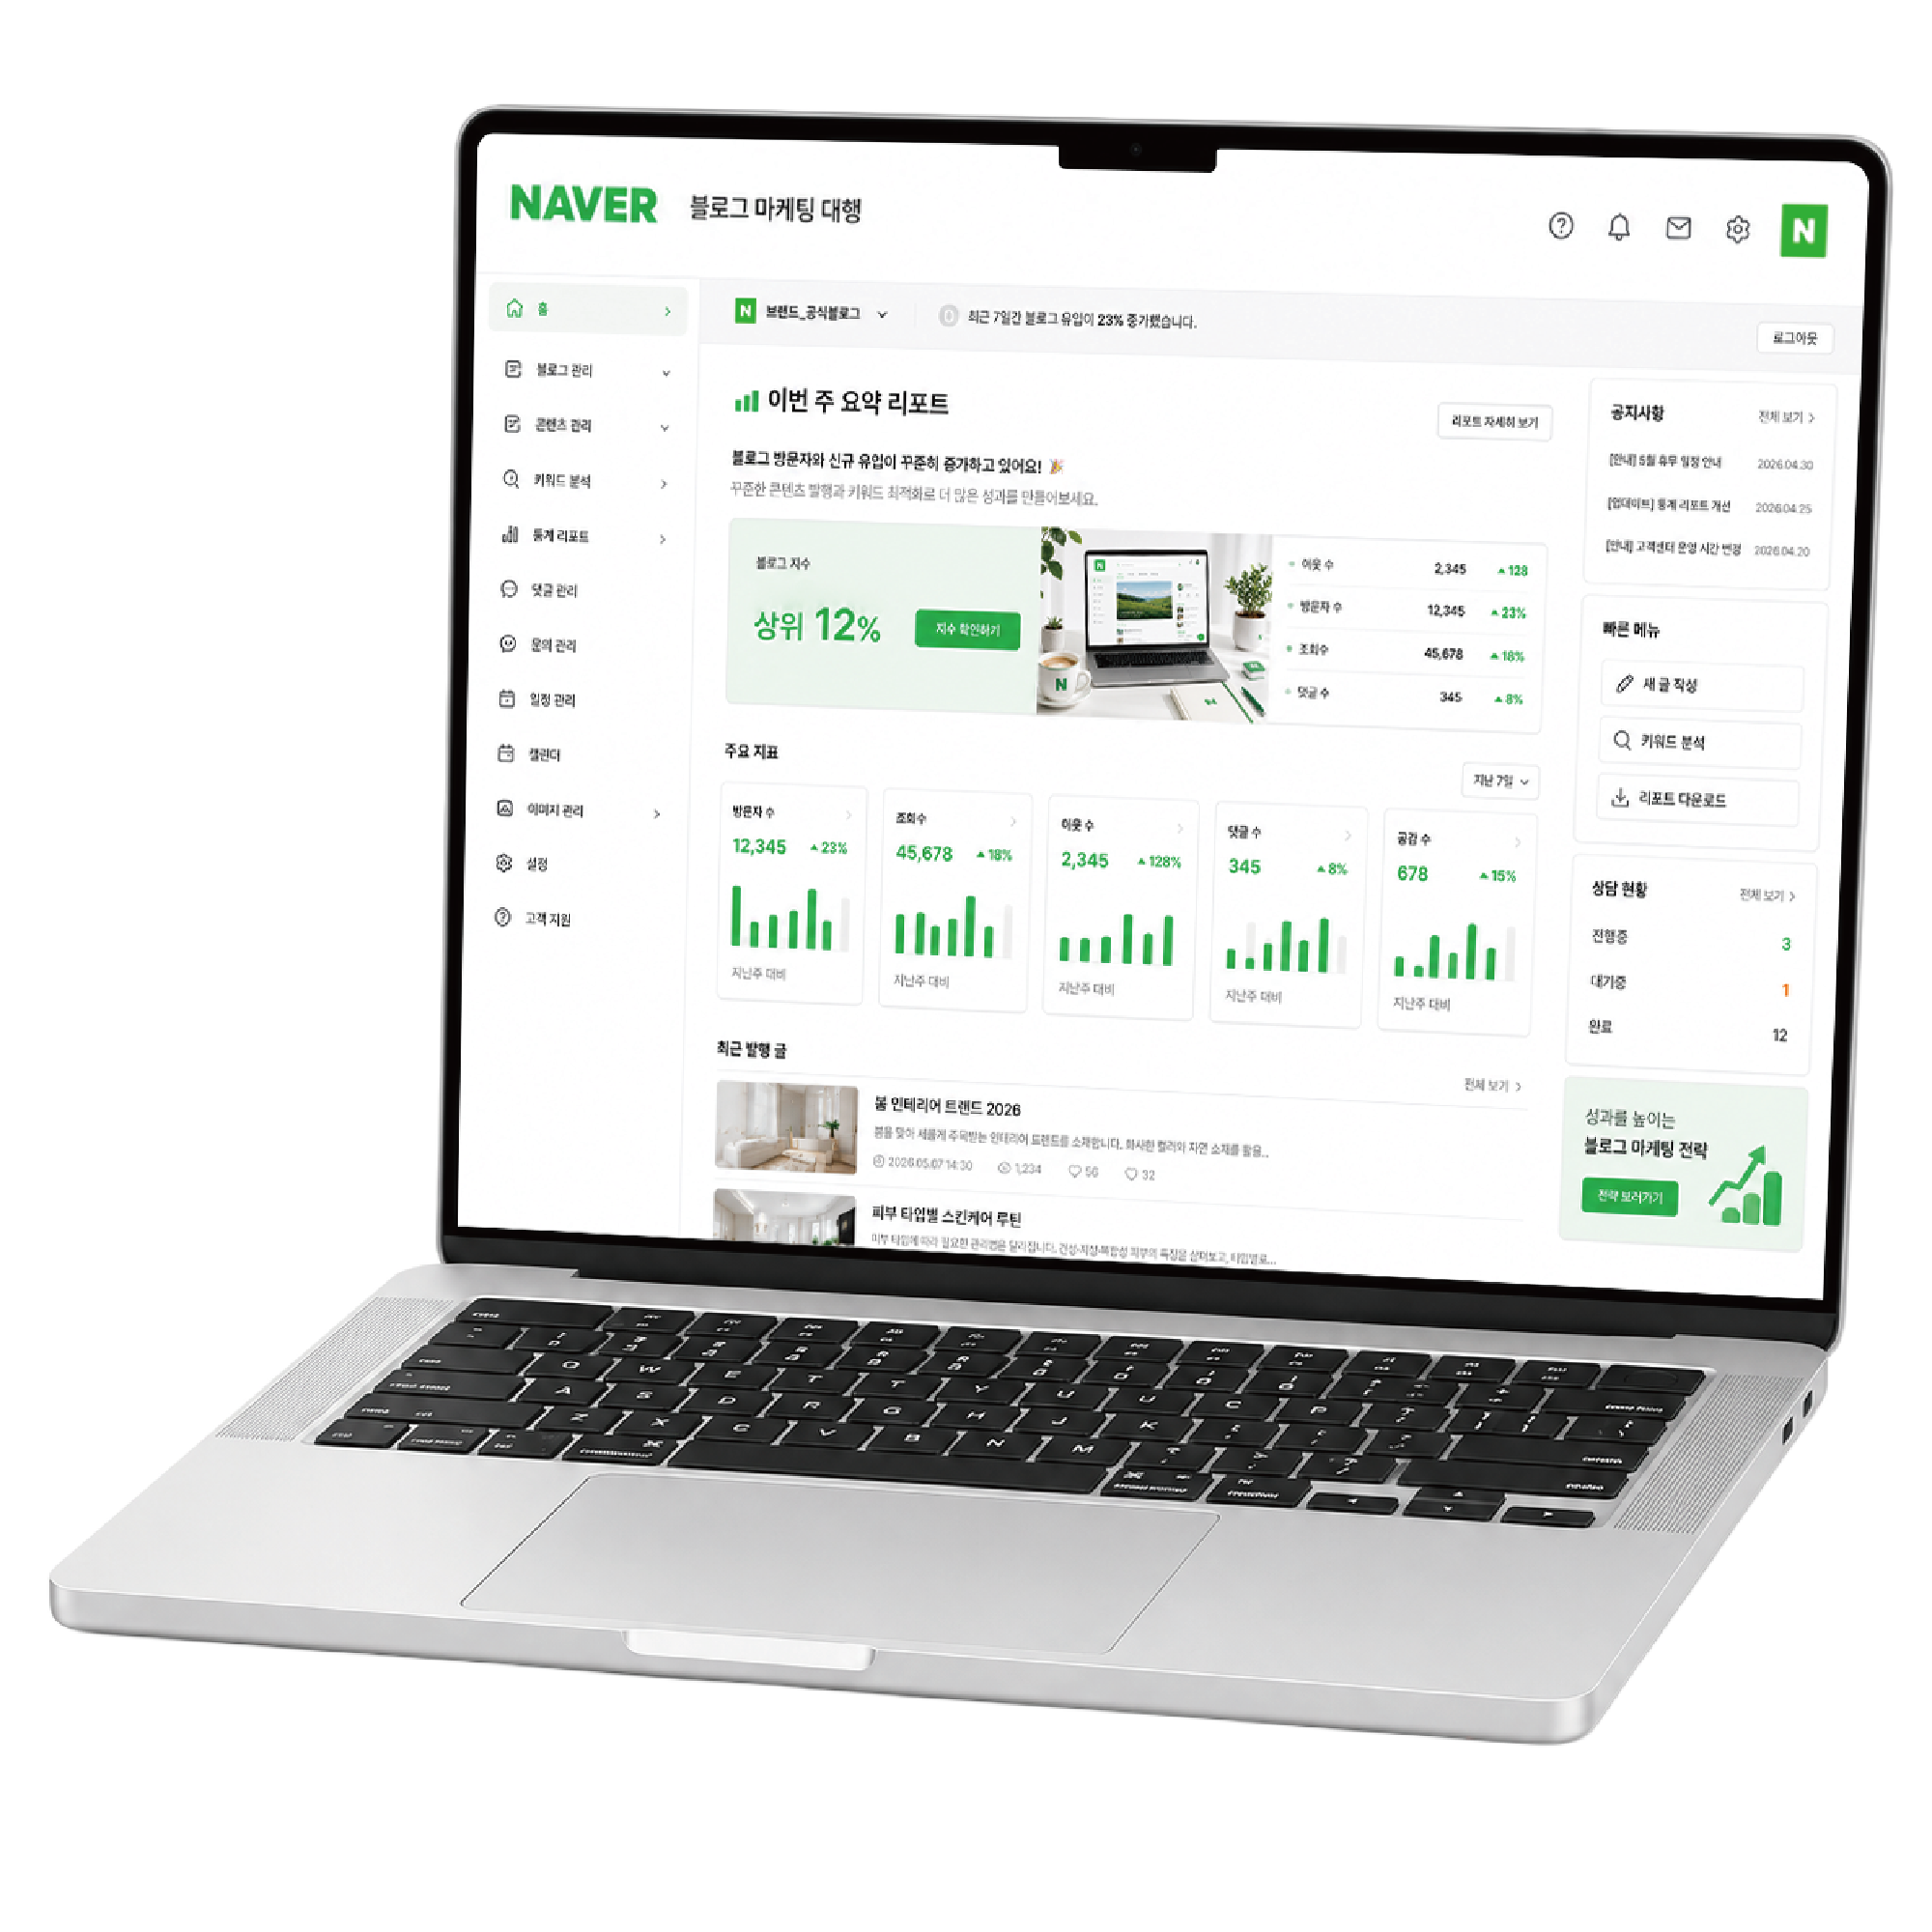
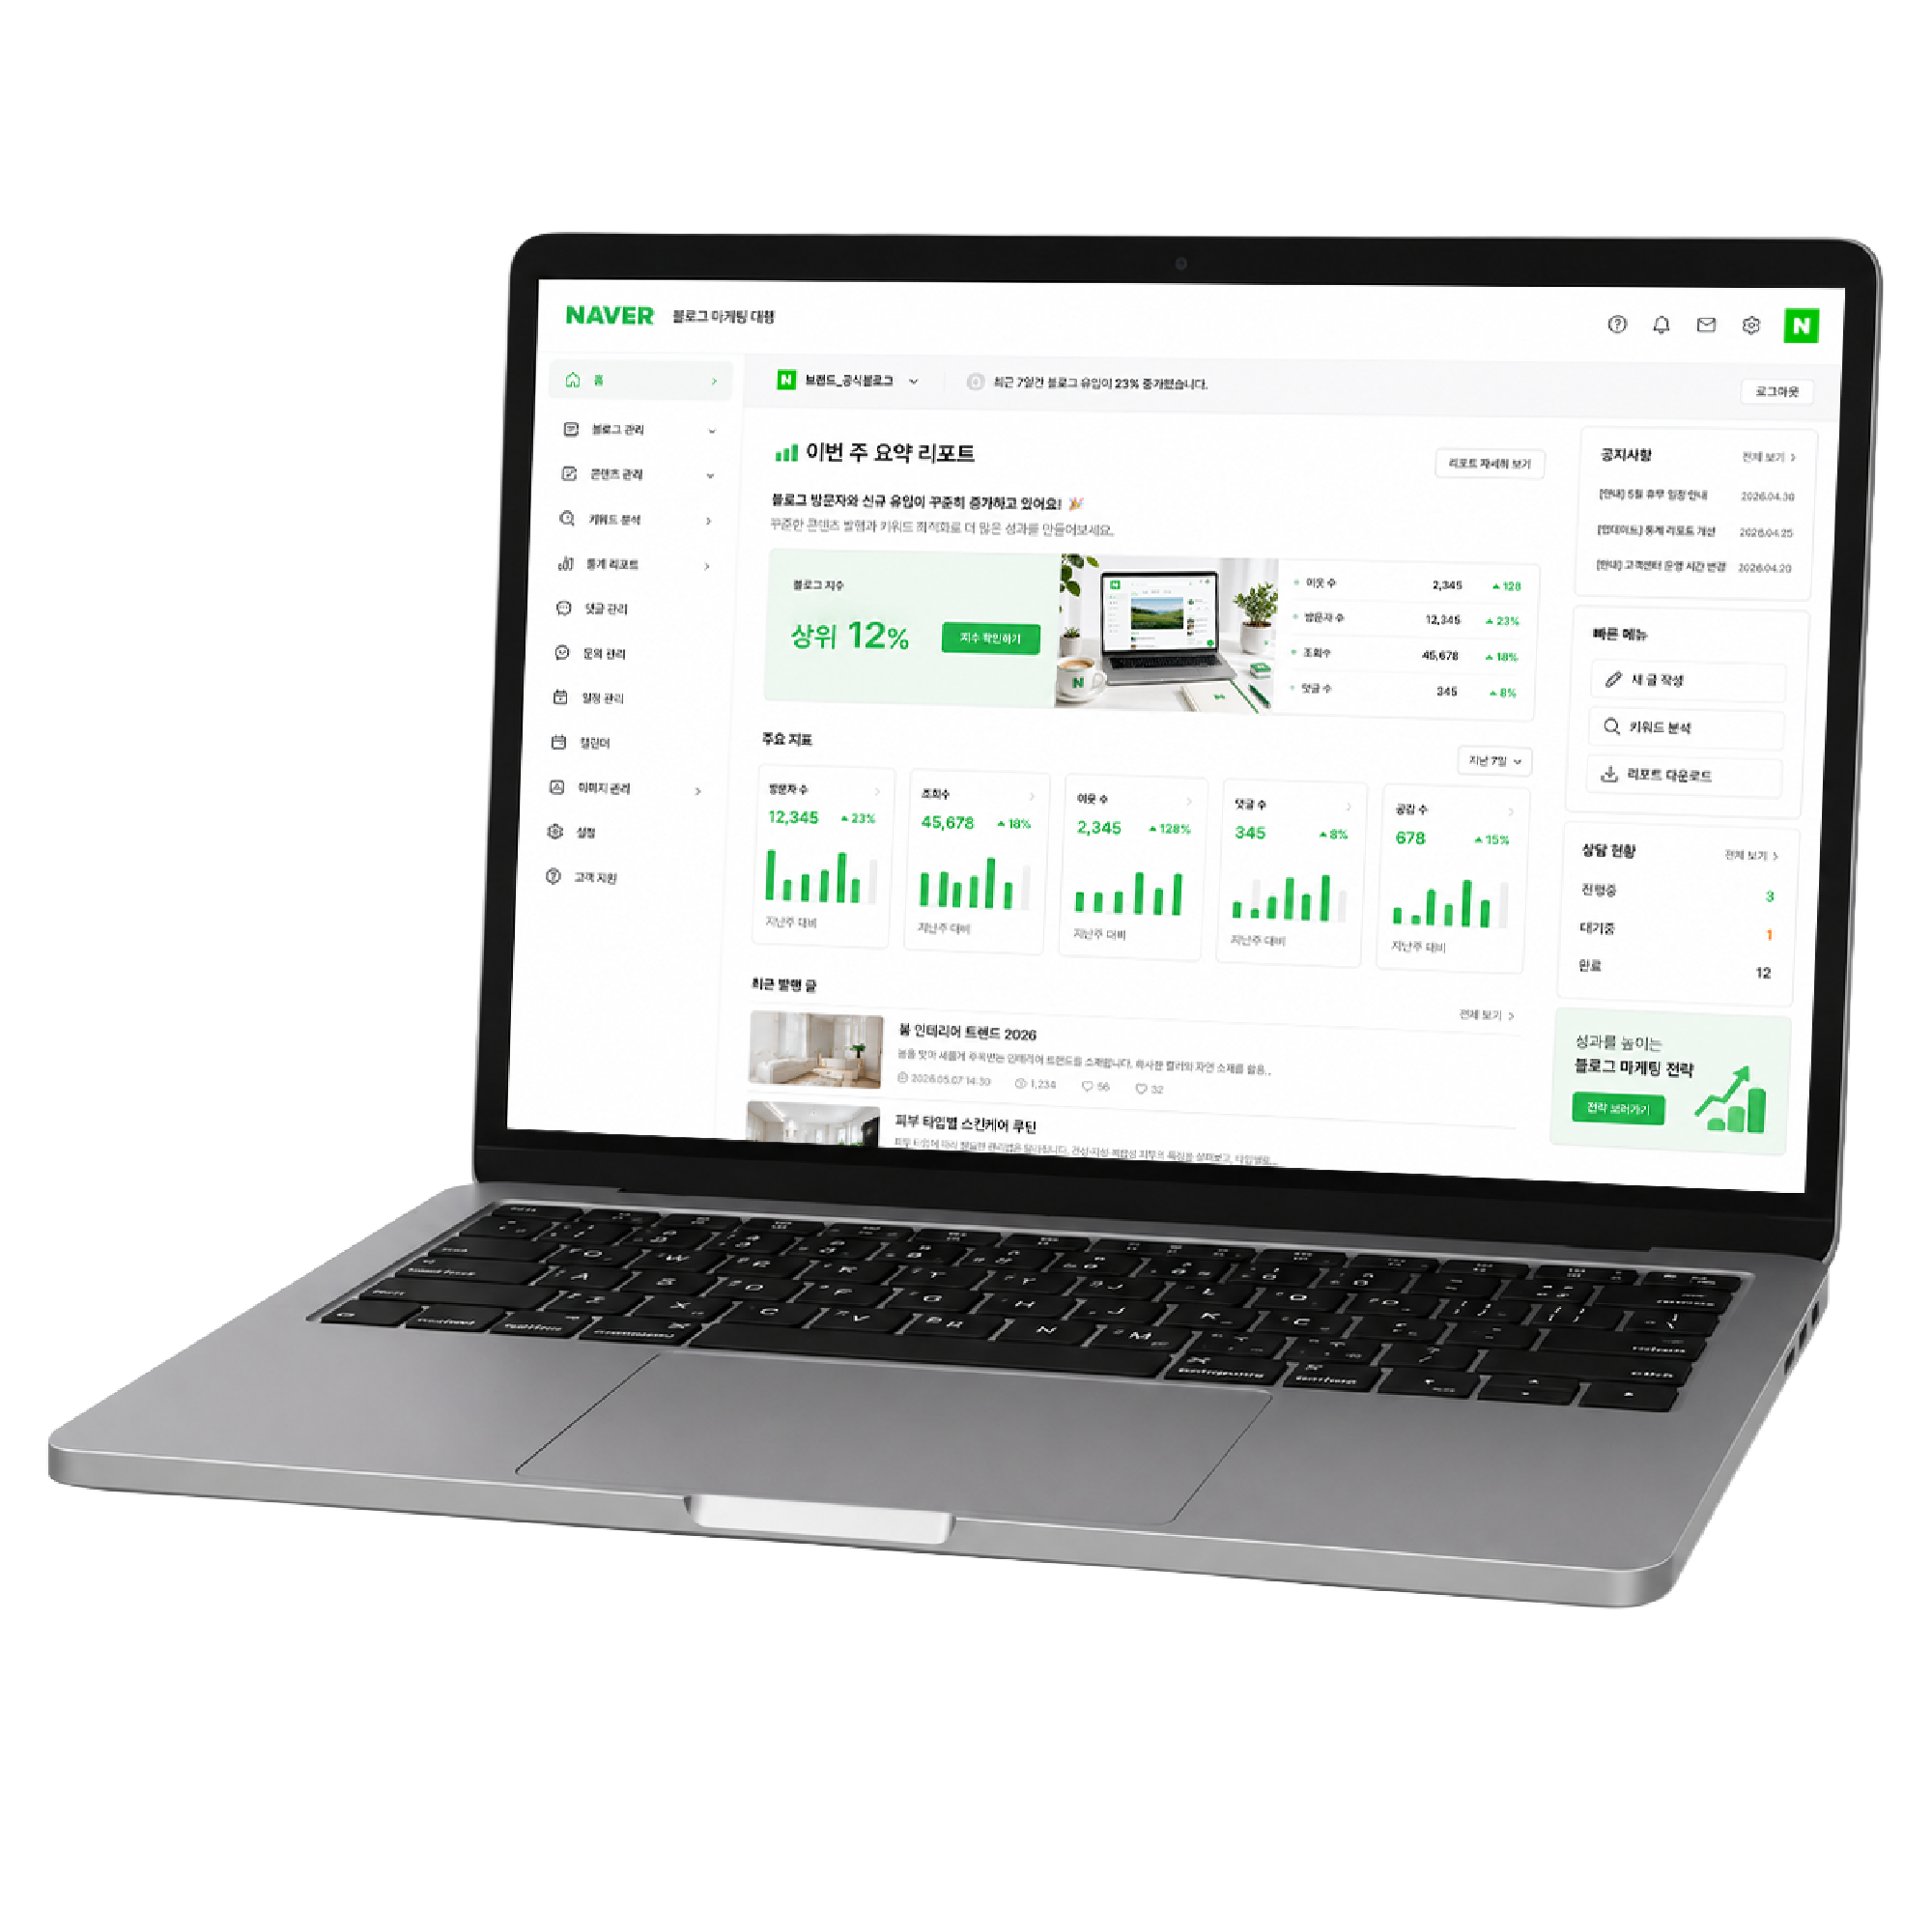
update

diff --git a/brand-namuwiki.html b/brand-namuwiki.html
@@ -412,14 +412,6 @@
     -->
   </nav>
 
-  <!-- ====================== PORTFOLIO LIGHTBOX ====================== -->
-  <div class="bp-lightbox" id="bp-lightbox" role="dialog" aria-modal="true" aria-label="포트폴리오 미리보기">
-    <button class="bp-lightbox-close" type="button" data-close aria-label="닫기">&times;</button>
-    <div class="bp-lightbox-inner">
-      <img src="" alt="" id="bp-lightbox-img" />
-    </div>
-  </div>
-
   <!-- ====================== POLICY / SUCCESS MODALS ====================== -->
   <div class="policy-modal" id="modal-terms" role="dialog" aria-modal="true" aria-label="이용약관">
     <div class="modal-box">
@@ -485,41 +477,6 @@
           methodInput.value = btn.dataset.method || '';
         });
       }
-    })();
-
-    (function () {
-      const lightbox = document.getElementById('bp-lightbox');
-      const lightboxImg = document.getElementById('bp-lightbox-img');
-      if (!lightbox || !lightboxImg) return;
-
-      const openLightbox = (img) => {
-        lightboxImg.src = img.src;
-        lightboxImg.alt = img.alt;
-        lightbox.classList.add('open');
-        document.body.style.overflow = 'hidden';
-      };
-
-      const closeLightbox = () => {
-        lightbox.classList.remove('open');
-        document.body.style.overflow = '';
-        lightboxImg.removeAttribute('src');
-        lightboxImg.alt = '';
-      };
-
-      document.querySelectorAll('.brand-namuwiki .sns-card-thumb').forEach((thumb) => {
-        thumb.addEventListener('click', () => {
-          const img = thumb.querySelector('img');
-          if (img) openLightbox(img);
-        });
-      });
-
-      lightbox.addEventListener('click', (e) => {
-        if (e.target === lightbox || e.target.closest('[data-close]')) closeLightbox();
-      });
-
-      document.addEventListener('keydown', (e) => {
-        if (e.key === 'Escape' && lightbox.classList.contains('open')) closeLightbox();
-      });
     })();
 
     (function () {

diff --git a/content-instagram.html b/content-instagram.html
@@ -105,16 +105,20 @@
             <span class="ig-ai-num" aria-hidden="true">02</span>
           </article>
           <article class="swiper-slide sns-card ig-ai-card reveal" data-delay="3">
-            <div class="sns-card-thumb">
-              <img src="/public/content/instagram/03_aI인플루언서_찹떡맨.png" alt="AI 인플루언서 찹떡맨" loading="lazy" />
-            </div>
-            <span class="ig-ai-num" aria-hidden="true">03</span>
+            <a class="sns-card-link" href="https://www.instagram.com/reel/DaaPCxYxo3Y/" target="_blank" rel="noopener noreferrer">
+              <div class="sns-card-thumb">
+                <img src="/public/content/instagram/03_aI인플루언서_찹떡맨.png" alt="AI 인플루언서 찹떡맨" loading="lazy" />
+              </div>
+              <span class="ig-ai-num" aria-hidden="true">03</span>
+            </a>
           </article>
           <article class="swiper-slide sns-card ig-ai-card reveal" data-delay="4">
-            <div class="sns-card-thumb">
-              <img src="/public/content/instagram/04_aI인플루언서_마틴킴.png" alt="AI 인플루언서 마틴킴" loading="lazy" />
-            </div>
-            <span class="ig-ai-num" aria-hidden="true">04</span>
+            <a class="sns-card-link" href="https://www.instagram.com/reel/DZMgcdCS3IS/" target="_blank" rel="noopener noreferrer">
+              <div class="sns-card-thumb">
+                <img src="/public/content/instagram/04_aI인플루언서_마틴킴.png" alt="AI 인플루언서 마틴킴" loading="lazy" />
+              </div>
+              <span class="ig-ai-num" aria-hidden="true">04</span>
+            </a>
           </article>
           <article class="swiper-slide sns-card ig-ai-card reveal" data-delay="5">
             <div class="sns-card-thumb">
@@ -135,10 +139,12 @@
             <span class="ig-ai-num" aria-hidden="true">07</span>
           </article>
           <article class="swiper-slide sns-card ig-ai-card reveal" data-delay="8">
-            <div class="sns-card-thumb">
-              <img src="/public/content/instagram/08_aI인플루언서_오드피플.png" alt="AI 인플루언서 오드피플" loading="lazy" />
-            </div>
-            <span class="ig-ai-num" aria-hidden="true">08</span>
+            <a class="sns-card-link" href="https://www.instagram.com/reel/DaAJ7H9y5kj/" target="_blank" rel="noopener noreferrer">
+              <div class="sns-card-thumb">
+                <img src="/public/content/instagram/08_aI인플루언서_오드피플.png" alt="AI 인플루언서 오드피플" loading="lazy" />
+              </div>
+              <span class="ig-ai-num" aria-hidden="true">08</span>
+            </a>
           </article>
         </div>
         <div class="swiper-pagination sns-works-pagination" aria-hidden="true"></div>
@@ -503,7 +509,7 @@
         lightboxImg.alt = '';
       };
 
-      document.querySelectorAll('.content-instagram .ig-ai-card .sns-card-thumb').forEach((thumb) => {
+      document.querySelectorAll('.content-instagram .ig-ai-card:not(:has(.sns-card-link)) .sns-card-thumb').forEach((thumb) => {
         thumb.addEventListener('click', () => {
           const img = thumb.querySelector('img');
           if (img) openLightbox(img);

diff --git a/style.css b/style.css
@@ -3760,7 +3760,6 @@ select {
 
 .brand-namuwiki .sns-card-thumb {
   aspect-ratio: 4 / 3;
-  cursor: pointer;
 }
 
 /* 히어로↔포트폴리오 세로 간격 — 이미지 하단 여백 보정 */
@@ -3859,8 +3858,7 @@ select {
 .nw-process-track {
   display: flex;
   align-items: stretch;
-  max-width: 1280px;
-  margin: 0 auto;
+  width: 100%;
 }
 
 .nw-process-step {